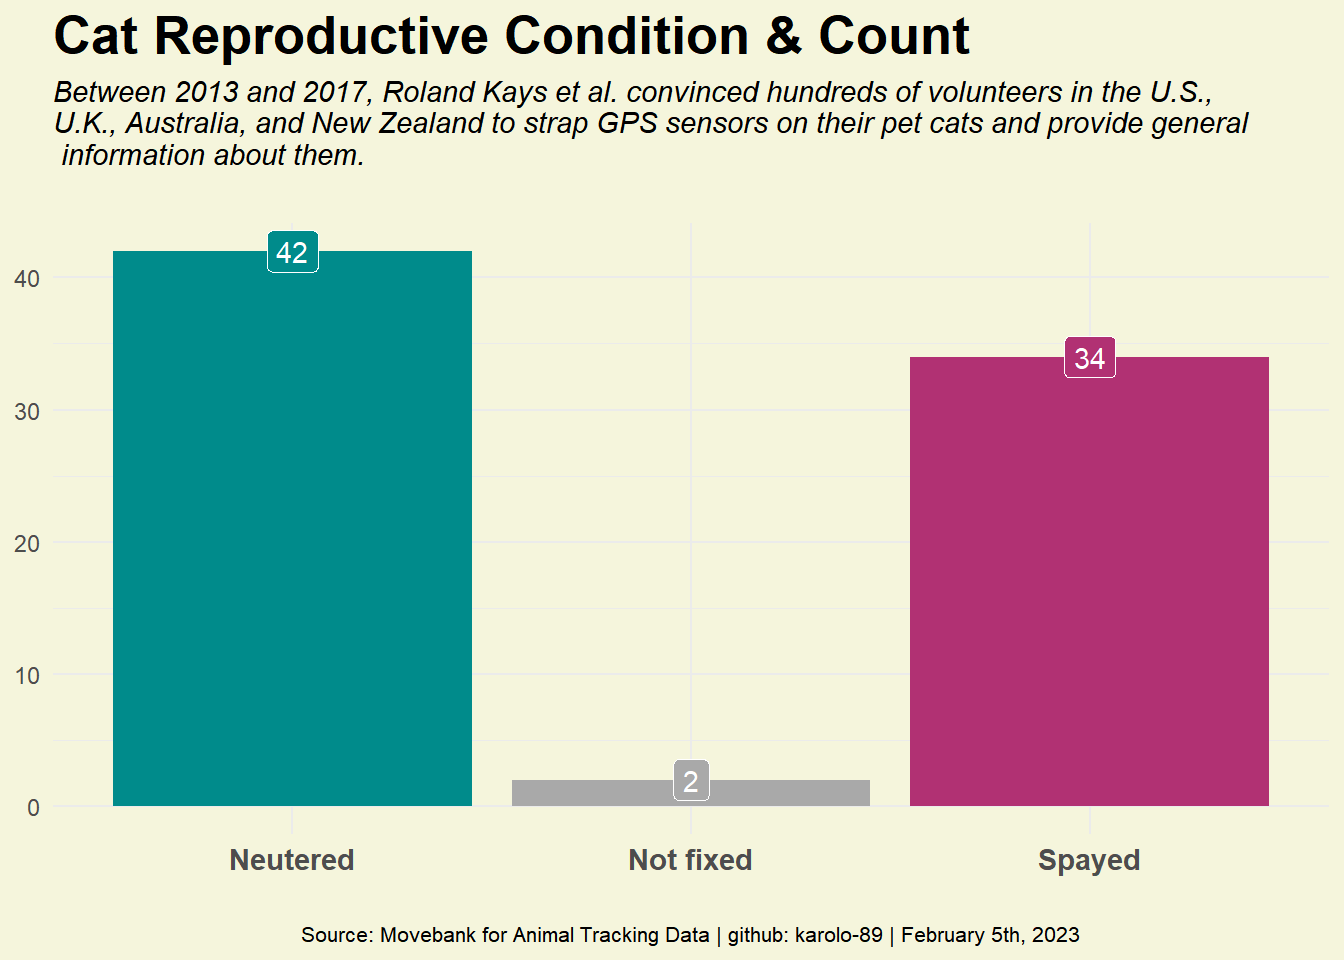
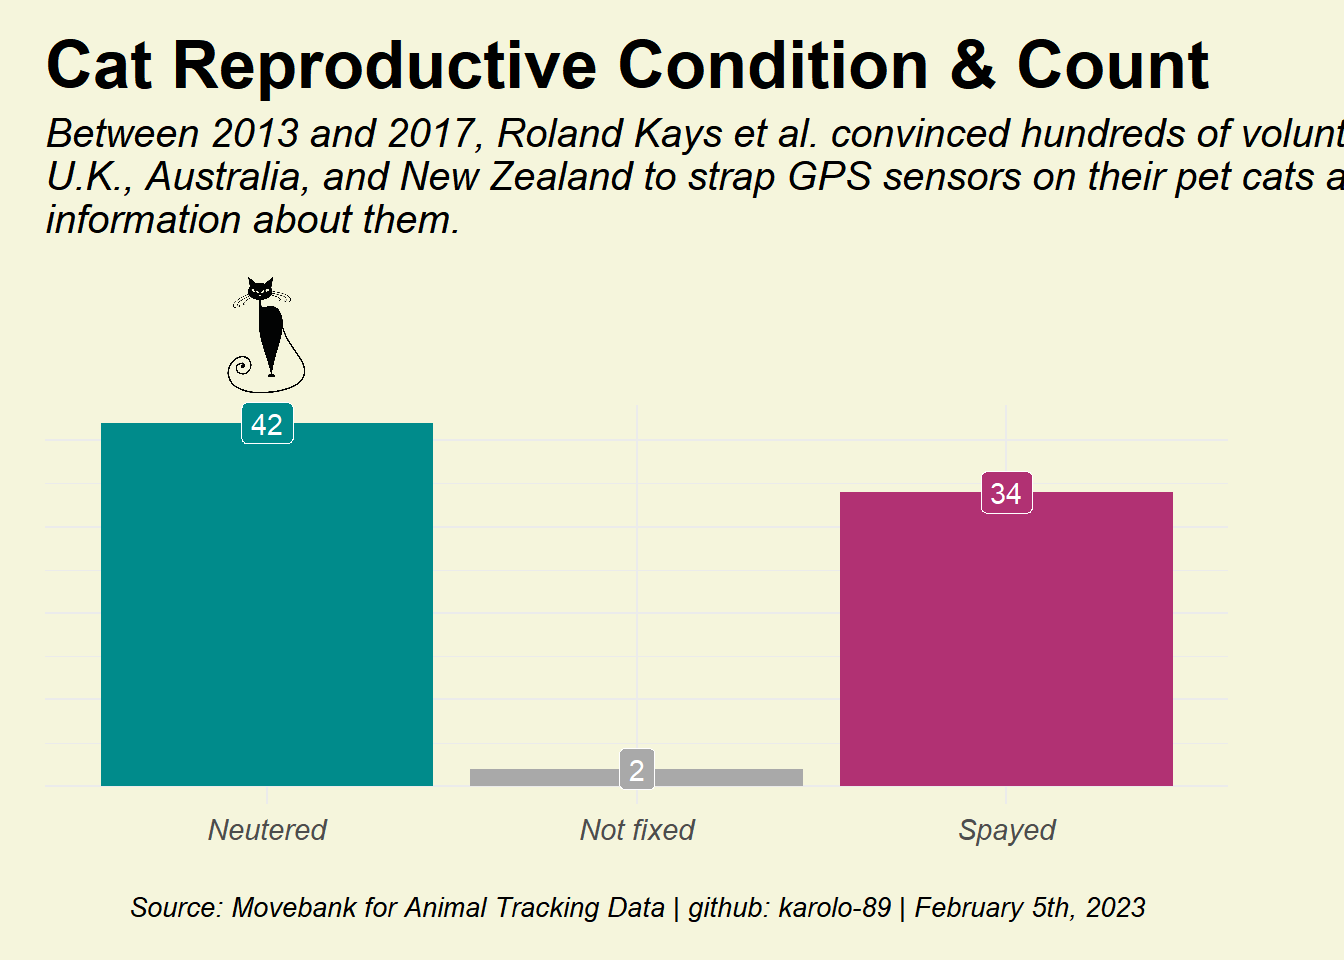
finalcat

diff --git a/docs/viz/TidyTuesday/PetCatsUK.html b/docs/viz/TidyTuesday/PetCatsUK.html
@@ -209,9 +209,7 @@ code span.wa { color: #60a0b0; font-weight: bold; font-style: italic; } /* Warni
     <h2 id="toc-title">On this page</h2>
    
   <ul>
-  <li><a href="#things-to-noticed" id="toc-things-to-noticed" class="nav-link active" data-scroll-target="#things-to-noticed">Things to noticed</a></li>
-  <li><a href="#my-graph" id="toc-my-graph" class="nav-link" data-scroll-target="#my-graph">My Graph</a></li>
-  <li><a href="#reference" id="toc-reference" class="nav-link" data-scroll-target="#reference">Reference</a></li>
+  <li><a href="#reference" id="toc-reference" class="nav-link active" data-scroll-target="#reference">Reference</a></li>
   </ul>
 </nav>
     </div>
@@ -224,7 +222,7 @@ code span.wa { color: #60a0b0; font-weight: bold; font-style: italic; } /* Warni
 <p>This dataset is full of exciting columns that provide insight into the secret lives of cats. I must admit that dogs are my favorite pets, but many of my friends love cats, and I always hear stories about how independent their pets are, which made me want to learn more about them.</p>
 <p>Well, I was born in Colombia, and during my time there, I always remember the cats running and fighting on my roof, which would keep me up at night for a few hours. Then, a few weeks later, I heard tiny meows and noticed the presence of some kittens, which made me suspect that it was another kind of fun that was going on there.</p>
 <p>According to the American Society for the Prevention of Cruelty to Animals ASPCA, a female cat can have an average of four to six kittens per litter and may have one to two litters per year. Some cat owners prefer to spay or neuter their cats.</p>
-<p>The TidyTuesday, weekly data project, posted on January 31st, 2023, a dataset from the Movebank for Animal Tracking Data, which includes cats’ characteristics (such as age, sex, neuter status, hunting habits) and time-stamped GPS pings. I’ll take a look at the reproductive status of the cats and provide an alternate graph to the one offered by the Twitter user <a href="https://twitter.com/OluwafemOyedele/status/1621817963232874496/photo/1"><span class="citation" data-cites="OluwafemOyedele">@OluwafemOyedele</span></a>.</p>
+<p>The TidyTuesday, weekly data project, posted on January 31st, 2023, a dataset from the Movebank for Animal Tracking Data, which includes cats’ characteristics (such as age, sex, neuter status, hunting habits) and time-stamped GPS pings. I’ll take a look at the reproductive status of the cats and improve the graph offered by the Twitter user <a href="https://twitter.com/OluwafemOyedele/status/1621817963232874496/photo/1"><span class="citation" data-cites="OluwafemOyedele">@OluwafemOyedele</span></a>.</p>
 <div class="quarto-figure quarto-figure-center">
 <figure class="figure">
 <p><img src="cat_orig.jpg" class="img-fluid figure-img"></p>
@@ -232,12 +230,23 @@ code span.wa { color: #60a0b0; font-weight: bold; font-style: italic; } /* Warni
 </figure>
 </div>
 <p>You can find the data on the TidyTuesday Github site- <a href="https://github.com/rfordatascience/tidytuesday/blob/master/data/2023/2023-01-31/readme.md">“Pet Cats UK”</a>.</p>
-<section id="things-to-noticed" class="level2">
-<h2 class="anchored" data-anchor-id="things-to-noticed">Things to noticed</h2>
+<div class="callout-warning callout callout-style-default callout-captioned">
+<div class="callout-header d-flex align-content-center">
+<div class="callout-icon-container">
+<i class="callout-icon"></i>
+</div>
+<div class="callout-caption-container flex-fill">
+Pay Attention
+</div>
+</div>
+<div class="callout-body-container callout-body">
 <ul>
 <li><p>In the graph above, the user combined both data sets: cats_uk and cats_uk_reference, which combined all cat activities and duplicated tag_id. The user did not consider the unique tag_id, which inflated their data points to over 100,000.</p></li>
 <li><p>By doubling the tag_ids, the data implies that the cat was neutered or spayed multiple times.</p></li>
 </ul>
+</div>
+</div>
+<p><strong>Here is the list of cat names, in case you need some inspiration.</strong></p>
 <div class="cell">
 <details>
 <summary>Show the code</summary>
@@ -283,73 +292,52 @@ code span.wa { color: #60a0b0; font-weight: bold; font-style: italic; } /* Warni
 <div class="cell">
 <details>
 <summary>Show the code</summary>
-<div class="sourceCode cell-code" id="cb3"><pre class="sourceCode r code-with-copy"><code class="sourceCode r"><span id="cb3-1"><a href="#cb3-1" aria-hidden="true" tabindex="-1"></a><span class="fu">glimpse</span>(cats_uk_reference)</span></code><button title="Copy to Clipboard" class="code-copy-button"><i class="bi"></i></button></pre></div>
-</details>
-<div class="cell-output cell-output-stdout">
-<pre><code>Rows: 101
-Columns: 16
-$ tag_id                        &lt;chr&gt; "Tommy-Tag", "Athena", "Ares", "Lola", "…
-$ animal_id                     &lt;chr&gt; "Tommy", "Athena", "Ares", "Lola", "Mave…
-$ animal_taxon                  &lt;chr&gt; "Felis catus", "Felis catus", "Felis cat…
-$ deploy_on_date                &lt;dttm&gt; 2017-06-03 01:02:09, 2017-06-24 01:02:1…
-$ deploy_off_date               &lt;dttm&gt; 2017-06-10 02:10:52, 2017-06-30 23:59:3…
-$ hunt                          &lt;lgl&gt; TRUE, TRUE, NA, TRUE, TRUE, TRUE, TRUE, …
-$ prey_p_month                  &lt;dbl&gt; 12.5, 3.0, 0.0, 3.0, 3.0, 3.0, 3.0, 17.5…
-$ animal_reproductive_condition &lt;chr&gt; "Neutered", "Spayed", "Neutered", "Spaye…
-$ animal_sex                    &lt;chr&gt; "m", "f", "m", "f", "m", "f", "m", "m", …
-$ hrs_indoors                   &lt;dbl&gt; 12.5, 7.5, 7.5, 17.5, 12.5, 12.5, 12.5, …
-$ n_cats                        &lt;int&gt; 2, 2, 2, 1, 1, 2, 3, 4, 2, 2, 1, 1, 1, 2…
-$ food_dry                      &lt;lgl&gt; TRUE, TRUE, TRUE, TRUE, TRUE, TRUE, TRUE…
-$ food_wet                      &lt;lgl&gt; TRUE, TRUE, TRUE, TRUE, TRUE, TRUE, TRUE…
-$ food_other                    &lt;lgl&gt; FALSE, FALSE, FALSE, FALSE, TRUE, TRUE, …
-$ study_site                    &lt;chr&gt; "UK", "UK", "UK", "UK", "UK", "UK", "UK"…
-$ age_years                     &lt;int&gt; 11, 3, 3, 10, 7, 7, 6, 2, 4, 4, 8, 1, 8,…</code></pre>
-</div>
-</div>
-</section>
-<section id="my-graph" class="level2">
-<h2 class="anchored" data-anchor-id="my-graph">My Graph</h2>
-<div class="cell">
-<details>
-<summary>Show the code</summary>
-<div class="sourceCode cell-code" id="cb5"><pre class="sourceCode r code-with-copy"><code class="sourceCode r"><span id="cb5-1"><a href="#cb5-1" aria-hidden="true" tabindex="-1"></a>cats_uk_reference <span class="sc">%&gt;%</span></span>
-<span id="cb5-2"><a href="#cb5-2" aria-hidden="true" tabindex="-1"></a>  <span class="fu">group_by</span>(animal_reproductive_condition, tag_id)<span class="sc">%&gt;%</span></span>
-<span id="cb5-3"><a href="#cb5-3" aria-hidden="true" tabindex="-1"></a>  <span class="fu">drop_na</span>()<span class="sc">%&gt;%</span></span>
-<span id="cb5-4"><a href="#cb5-4" aria-hidden="true" tabindex="-1"></a>  <span class="fu">ggplot</span>(<span class="fu">aes</span>(</span>
-<span id="cb5-5"><a href="#cb5-5" aria-hidden="true" tabindex="-1"></a>    <span class="at">x =</span> animal_reproductive_condition,</span>
-<span id="cb5-6"><a href="#cb5-6" aria-hidden="true" tabindex="-1"></a>    <span class="at">fill=</span> animal_reproductive_condition))<span class="sc">+</span></span>
-<span id="cb5-7"><a href="#cb5-7" aria-hidden="true" tabindex="-1"></a>  <span class="fu">geom_bar</span>(<span class="fu">aes</span>(</span>
-<span id="cb5-8"><a href="#cb5-8" aria-hidden="true" tabindex="-1"></a>    <span class="at">x =</span> animal_reproductive_condition,</span>
-<span id="cb5-9"><a href="#cb5-9" aria-hidden="true" tabindex="-1"></a>    <span class="at">fill=</span> animal_reproductive_condition)) <span class="sc">+</span></span>
-<span id="cb5-10"><a href="#cb5-10" aria-hidden="true" tabindex="-1"></a>   <span class="fu">geom_label</span>(<span class="fu">aes</span>(<span class="at">x=</span> animal_reproductive_condition,</span>
-<span id="cb5-11"><a href="#cb5-11" aria-hidden="true" tabindex="-1"></a>                <span class="at">label=</span>..count..),</span>
-<span id="cb5-12"><a href="#cb5-12" aria-hidden="true" tabindex="-1"></a>              <span class="at">colour=</span> <span class="st">"White"</span>,</span>
-<span id="cb5-13"><a href="#cb5-13" aria-hidden="true" tabindex="-1"></a>            <span class="at">stat=</span><span class="st">'count'</span>)<span class="sc">+</span></span>
-<span id="cb5-14"><a href="#cb5-14" aria-hidden="true" tabindex="-1"></a></span>
-<span id="cb5-15"><a href="#cb5-15" aria-hidden="true" tabindex="-1"></a><span class="fu">scale_fill_manual</span>(<span class="at">name=</span> <span class="cn">NULL</span>, <span class="at">values =</span> <span class="fu">c</span>(<span class="st">"cyan4"</span>,<span class="st">"darkgray"</span>,<span class="st">"#b13173"</span>))<span class="sc">+</span></span>
-<span id="cb5-16"><a href="#cb5-16" aria-hidden="true" tabindex="-1"></a>    <span class="fu">labs</span>(<span class="at">title=</span> <span class="st">"Cat Reproductive Condition &amp; Count"</span>,</span>
-<span id="cb5-17"><a href="#cb5-17" aria-hidden="true" tabindex="-1"></a>      <span class="at">caption =</span> <span class="st">"Source: Movebank for Animal Tracking Data | github: karolo-89 | February 5th, 2023"</span>,</span>
-<span id="cb5-18"><a href="#cb5-18" aria-hidden="true" tabindex="-1"></a>             <span class="at">subtitle =</span> <span class="st">"Between 2013 and 2017, Roland Kays et al. convinced hundreds of volunteers in the U.S., </span><span class="sc">\n</span><span class="st">U.K., Australia, and New Zealand to strap GPS sensors on their pet cats and provide general</span><span class="sc">\n</span><span class="st"> information about them."</span>,</span>
-<span id="cb5-19"><a href="#cb5-19" aria-hidden="true" tabindex="-1"></a></span>
-<span id="cb5-20"><a href="#cb5-20" aria-hidden="true" tabindex="-1"></a>         <span class="at">y=</span> <span class="st">""</span>,</span>
-<span id="cb5-21"><a href="#cb5-21" aria-hidden="true" tabindex="-1"></a>         <span class="at">x=</span><span class="st">""</span>) <span class="sc">+</span></span>
-<span id="cb5-22"><a href="#cb5-22" aria-hidden="true" tabindex="-1"></a>  </span>
-<span id="cb5-23"><a href="#cb5-23" aria-hidden="true" tabindex="-1"></a>  </span>
-<span id="cb5-24"><a href="#cb5-24" aria-hidden="true" tabindex="-1"></a>  <span class="fu">theme_minimal</span>() <span class="sc">+</span></span>
-<span id="cb5-25"><a href="#cb5-25" aria-hidden="true" tabindex="-1"></a>  <span class="fu">theme</span>(<span class="at">legend.position=</span><span class="st">"none"</span>,</span>
-<span id="cb5-26"><a href="#cb5-26" aria-hidden="true" tabindex="-1"></a>        <span class="at">plot.title =</span> <span class="fu">element_text</span>(<span class="at">face =</span> <span class="st">"bold"</span>, <span class="at">size =</span> <span class="dv">20</span>),</span>
-<span id="cb5-27"><a href="#cb5-27" aria-hidden="true" tabindex="-1"></a>        <span class="at">plot.subtitle =</span> <span class="fu">element_text</span>(<span class="at">face =</span> <span class="st">"italic"</span>, <span class="at">margin=</span><span class="fu">margin</span>(<span class="dv">0</span>,<span class="dv">0</span>,<span class="dv">20</span>,<span class="dv">0</span>)),</span>
-<span id="cb5-28"><a href="#cb5-28" aria-hidden="true" tabindex="-1"></a>        <span class="at">plot.caption =</span> <span class="fu">element_text</span>(<span class="at">size =</span> <span class="dv">8</span>, <span class="at">hjust =</span> <span class="fl">0.5</span>),</span>
-<span id="cb5-29"><a href="#cb5-29" aria-hidden="true" tabindex="-1"></a>        <span class="at">axis.title.y =</span> <span class="fu">element_blank</span>(),</span>
-<span id="cb5-30"><a href="#cb5-30" aria-hidden="true" tabindex="-1"></a>        <span class="at">axis.text.x =</span> <span class="fu">element_text</span>(<span class="at">size =</span> <span class="dv">11</span>, <span class="at">face =</span> <span class="st">"bold"</span>),</span>
-<span id="cb5-31"><a href="#cb5-31" aria-hidden="true" tabindex="-1"></a>        <span class="at">plot.background =</span> <span class="fu">element_rect</span>(<span class="at">fill =</span> <span class="st">"#F5F5DC"</span>, <span class="at">colour=</span><span class="st">"#F5F5DC"</span>),</span>
-<span id="cb5-32"><a href="#cb5-32" aria-hidden="true" tabindex="-1"></a>        <span class="at">panel.background =</span> <span class="fu">element_rect</span>(<span class="at">fill =</span> <span class="st">"#F5F5DC"</span>, <span class="at">colour=</span><span class="st">"#F5F5DC"</span>))</span></code><button title="Copy to Clipboard" class="code-copy-button"><i class="bi"></i></button></pre></div>
+<div class="sourceCode cell-code" id="cb3"><pre class="sourceCode r code-with-copy"><code class="sourceCode r"><span id="cb3-1"><a href="#cb3-1" aria-hidden="true" tabindex="-1"></a>cats_uk_reference <span class="sc">%&gt;%</span></span>
+<span id="cb3-2"><a href="#cb3-2" aria-hidden="true" tabindex="-1"></a>  <span class="fu">group_by</span>(animal_reproductive_condition, tag_id)<span class="sc">%&gt;%</span></span>
+<span id="cb3-3"><a href="#cb3-3" aria-hidden="true" tabindex="-1"></a>  <span class="fu">drop_na</span>()<span class="sc">%&gt;%</span></span>
+<span id="cb3-4"><a href="#cb3-4" aria-hidden="true" tabindex="-1"></a>  <span class="fu">ggplot</span>(<span class="fu">aes</span>(</span>
+<span id="cb3-5"><a href="#cb3-5" aria-hidden="true" tabindex="-1"></a>    <span class="at">x =</span> animal_reproductive_condition,</span>
+<span id="cb3-6"><a href="#cb3-6" aria-hidden="true" tabindex="-1"></a>    <span class="at">fill=</span> animal_reproductive_condition))<span class="sc">+</span></span>
+<span id="cb3-7"><a href="#cb3-7" aria-hidden="true" tabindex="-1"></a>  <span class="fu">geom_bar</span>(<span class="fu">aes</span>(</span>
+<span id="cb3-8"><a href="#cb3-8" aria-hidden="true" tabindex="-1"></a>    <span class="at">x =</span> animal_reproductive_condition,</span>
+<span id="cb3-9"><a href="#cb3-9" aria-hidden="true" tabindex="-1"></a>    <span class="at">fill=</span> animal_reproductive_condition)) <span class="sc">+</span></span>
+<span id="cb3-10"><a href="#cb3-10" aria-hidden="true" tabindex="-1"></a>   <span class="fu">geom_label</span>(<span class="fu">aes</span>(<span class="at">x=</span> animal_reproductive_condition,</span>
+<span id="cb3-11"><a href="#cb3-11" aria-hidden="true" tabindex="-1"></a>                <span class="at">label=</span>..count..),</span>
+<span id="cb3-12"><a href="#cb3-12" aria-hidden="true" tabindex="-1"></a>              <span class="at">colour=</span> <span class="st">"White"</span>,</span>
+<span id="cb3-13"><a href="#cb3-13" aria-hidden="true" tabindex="-1"></a>            <span class="at">stat=</span><span class="st">'count'</span>)<span class="sc">+</span></span>
+<span id="cb3-14"><a href="#cb3-14" aria-hidden="true" tabindex="-1"></a></span>
+<span id="cb3-15"><a href="#cb3-15" aria-hidden="true" tabindex="-1"></a><span class="fu">scale_fill_manual</span>(<span class="at">name=</span> <span class="cn">NULL</span>, <span class="at">values =</span> <span class="fu">c</span>(<span class="st">"cyan4"</span>,<span class="st">"darkgray"</span>,<span class="st">"#b13173"</span>))<span class="sc">+</span></span>
+<span id="cb3-16"><a href="#cb3-16" aria-hidden="true" tabindex="-1"></a>    <span class="fu">labs</span>(<span class="at">title=</span> <span class="st">"Cat Reproductive Condition &amp; Count"</span>,</span>
+<span id="cb3-17"><a href="#cb3-17" aria-hidden="true" tabindex="-1"></a>      <span class="at">caption =</span> <span class="st">"Source: Movebank for Animal Tracking Data | github: karolo-89 | February 5th, 2023"</span>,</span>
+<span id="cb3-18"><a href="#cb3-18" aria-hidden="true" tabindex="-1"></a>             <span class="at">subtitle =</span> <span class="st">"Between 2013 and 2017, Roland Kays et al. convinced hundreds of volunteers in the U.S., U.K.,</span><span class="sc">\n</span><span class="st">Australia, and New Zealand to strap GPS sensors on their pet cats and provide general information</span><span class="sc">\n</span><span class="st">about them."</span>,</span>
+<span id="cb3-19"><a href="#cb3-19" aria-hidden="true" tabindex="-1"></a></span>
+<span id="cb3-20"><a href="#cb3-20" aria-hidden="true" tabindex="-1"></a>         <span class="at">y=</span> <span class="st">""</span>,</span>
+<span id="cb3-21"><a href="#cb3-21" aria-hidden="true" tabindex="-1"></a>         <span class="at">x=</span><span class="st">""</span>) <span class="sc">+</span></span>
+<span id="cb3-22"><a href="#cb3-22" aria-hidden="true" tabindex="-1"></a>  </span>
+<span id="cb3-23"><a href="#cb3-23" aria-hidden="true" tabindex="-1"></a>  </span>
+<span id="cb3-24"><a href="#cb3-24" aria-hidden="true" tabindex="-1"></a>  <span class="fu">theme_minimal</span>() <span class="sc">+</span></span>
+<span id="cb3-25"><a href="#cb3-25" aria-hidden="true" tabindex="-1"></a>  <span class="fu">theme</span>(<span class="at">legend.position=</span><span class="st">"none"</span>,</span>
+<span id="cb3-26"><a href="#cb3-26" aria-hidden="true" tabindex="-1"></a>        <span class="at">plot.title =</span> <span class="fu">element_text</span>(<span class="at">face =</span> <span class="st">"bold"</span>, <span class="at">size =</span> <span class="dv">20</span>),</span>
+<span id="cb3-27"><a href="#cb3-27" aria-hidden="true" tabindex="-1"></a>        <span class="at">plot.subtitle =</span> <span class="fu">element_text</span>(<span class="at">face =</span> <span class="st">"italic"</span>, <span class="at">size=</span> <span class="dv">10</span>, <span class="at">margin=</span><span class="fu">margin</span>(<span class="dv">0</span>,<span class="dv">0</span>,<span class="dv">62</span>,<span class="dv">0</span>)),</span>
+<span id="cb3-28"><a href="#cb3-28" aria-hidden="true" tabindex="-1"></a>        <span class="at">plot.caption =</span> <span class="fu">element_text</span>(<span class="at">size =</span> <span class="dv">10</span>, <span class="at">hjust =</span> <span class="fl">0.5</span>, <span class="at">face =</span> <span class="st">"italic"</span>),</span>
+<span id="cb3-29"><a href="#cb3-29" aria-hidden="true" tabindex="-1"></a>        <span class="at">axis.title.y =</span> <span class="fu">element_blank</span>(),</span>
+<span id="cb3-30"><a href="#cb3-30" aria-hidden="true" tabindex="-1"></a>        <span class="at">axis.text.x =</span> <span class="fu">element_text</span>(<span class="at">size =</span> <span class="dv">11</span>, <span class="at">face =</span> <span class="st">"italic"</span>),</span>
+<span id="cb3-31"><a href="#cb3-31" aria-hidden="true" tabindex="-1"></a>        <span class="at">axis.text.y=</span><span class="fu">element_blank</span>(),</span>
+<span id="cb3-32"><a href="#cb3-32" aria-hidden="true" tabindex="-1"></a>        <span class="at">axis.ticks.y=</span><span class="fu">element_blank</span>(),</span>
+<span id="cb3-33"><a href="#cb3-33" aria-hidden="true" tabindex="-1"></a>        <span class="at">plot.background =</span> <span class="fu">element_rect</span>(<span class="at">fill =</span> <span class="st">"#F5F5DC"</span>, <span class="at">colour=</span><span class="st">"#F5F5DC"</span>),</span>
+<span id="cb3-34"><a href="#cb3-34" aria-hidden="true" tabindex="-1"></a>        <span class="at">panel.background =</span> <span class="fu">element_rect</span>(<span class="at">fill =</span> <span class="st">"#F5F5DC"</span>, <span class="at">colour=</span><span class="st">"#F5F5DC"</span>),</span>
+<span id="cb3-35"><a href="#cb3-35" aria-hidden="true" tabindex="-1"></a>        <span class="at">plot.margin =</span> <span class="fu">unit</span>(<span class="fu">c</span>(<span class="dv">1</span>,<span class="dv">3</span>,<span class="dv">1</span>,<span class="dv">1</span>), <span class="st">"lines"</span>))<span class="sc">+</span></span>
+<span id="cb3-36"><a href="#cb3-36" aria-hidden="true" tabindex="-1"></a>      <span class="fu">coord_cartesian</span>(<span class="at">clip =</span> <span class="st">'off'</span>) <span class="sc">+</span>   <span class="co"># This keeps the labels from disappearing</span></span>
+<span id="cb3-37"><a href="#cb3-37" aria-hidden="true" tabindex="-1"></a> <span class="fu">annotation_raster</span>(mypng, <span class="at">ymin =</span> <span class="fl">45.5</span>, <span class="at">ymax=</span> <span class="dv">57</span>, <span class="at">xmin =</span> <span class="fl">0.89</span>, <span class="at">xmax =</span> <span class="fl">1.1</span>)</span></code><button title="Copy to Clipboard" class="code-copy-button"><i class="bi"></i></button></pre></div>
 </details>
 <div class="cell-output-display">
-<p><img src="PetCatsUK_files/figure-html/unnamed-chunk-3-1.png" class="img-fluid" width="672"></p>
+<p><img src="PetCatsUK_files/figure-html/unnamed-chunk-2-1.png" class="img-fluid" width="672"></p>
 </div>
+<details>
+<summary>Show the code</summary>
+<div class="sourceCode cell-code" id="cb4"><pre class="sourceCode r code-with-copy"><code class="sourceCode r"><span id="cb4-1"><a href="#cb4-1" aria-hidden="true" tabindex="-1"></a><span class="fu">ggsave</span>(<span class="st">"TT_Week5_2023.png"</span>)</span></code><button title="Copy to Clipboard" class="code-copy-button"><i class="bi"></i></button></pre></div>
+</details>
 </div>
-</section>
 <section id="reference" class="level2">
 <h2 class="anchored" data-anchor-id="reference">Reference</h2>
 <p>Kays R, Dunn RR, Parsons AW, Mcdonald B, Perkins T, Powers S, Shell L, McDonald JL, Cole H, Kikillus H, Woods L, Tindle H, Roetman P (2020) The small home ranges and large local ecological impacts of pet cats. Animal Conservation. doi:10.1111/acv.12563</p>

diff --git a/docs/Resources.html b/docs/Resources.html
@@ -199,7 +199,7 @@ Feb 5, 2023
 </div>
 </a>
 </div>
-<div class="g-col-1" data-index="1" data-listing-date-sort="1675584000000" data-listing-file-modified-sort="1675666956226" data-listing-reading-time-sort="6.165">
+<div class="g-col-1" data-index="1" data-listing-date-sort="1675584000000" data-listing-file-modified-sort="1675670636326" data-listing-reading-time-sort="6.515">
 <a href="./viz/TidyTuesday/PetCatsUK.html" class="quarto-grid-link">
 <div class="quarto-grid-item card h-100 card-left">
 <p class="card-img-top">
